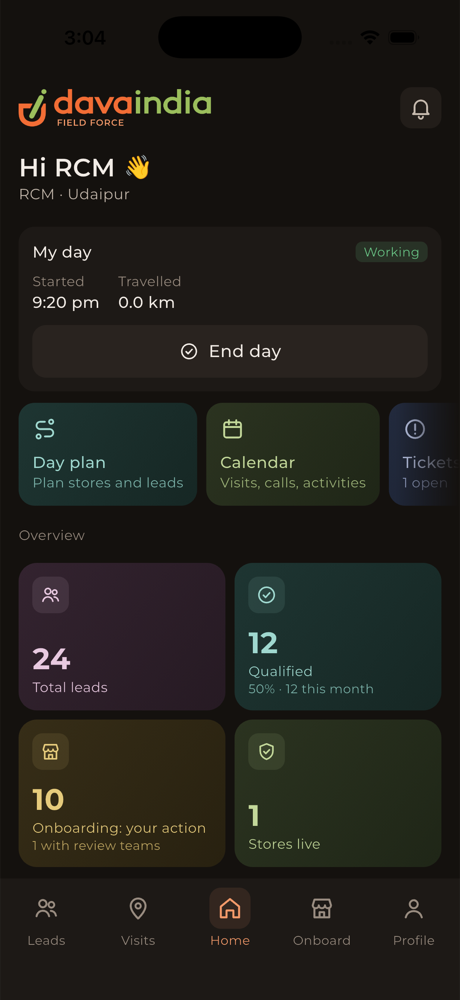
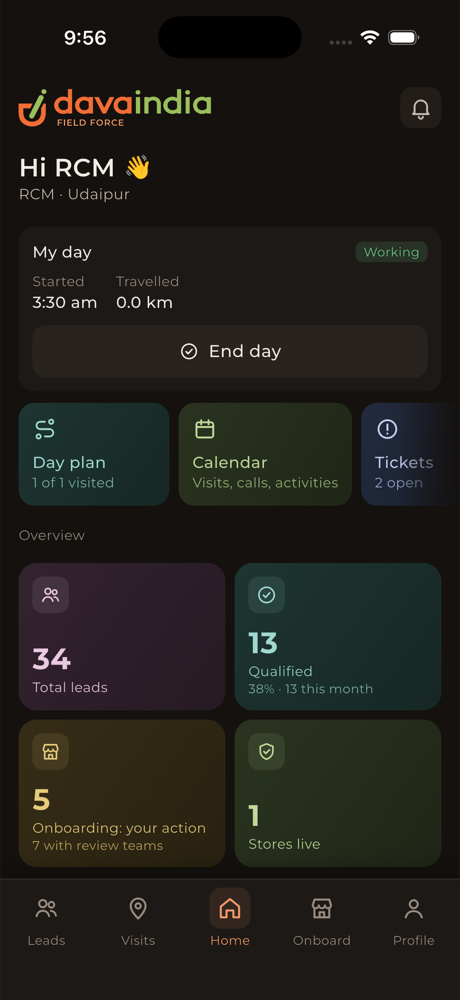
Release 1.1.1
The form button now sits on top of the keyboard, with the bar's colour
filling behind the keyboard's rounded corners, and a focused field
keeps its label in view. Bottom bars get a soft shadow and a faint
hairline. The status bar is transparent on older Android too. The
splash is the logo on the page colour with a dotted loader, and the
native launch screens use the same colour.

diff --git a/lib/features/auth/splash_screen.dart b/lib/features/auth/splash_screen.dart
@@ -2,44 +2,85 @@ import 'package:material_ui/material_ui.dart';
 
 import '../../core/brand/logo.dart';
 import '../../core/theme/app_theme.dart';
-import '../../core/theme/tokens.dart';
 
-/// Shown while the saved session is being restored: the in-app logo centred on a full light clay
-/// gradient. The native launch screen is the gradient's top colour, so the hand-off doesn't flash.
+/// Shown while the saved session is being restored: the in-app logo centred on the page colour, with
+/// three dots pulsing below. The native launch screen is the same colour, so the hand-off doesn't flash.
 class SplashScreen extends StatelessWidget {
   const SplashScreen({super.key});
 
   @override
   Widget build(BuildContext context) {
-    final c = context.colors;
-    final t = context.stats.tint(StatTone.clay);
     return Scaffold(
-      body: DecoratedBox(
-        decoration: BoxDecoration(
-          gradient: LinearGradient(begin: Alignment.topCenter, end: Alignment.bottomCenter, colors: [t.top, t.bottom]),
-        ),
-        child: Stack(
+      backgroundColor: context.colors.page,
+      body: const Stack(
+        children: [
+          Center(child: AppLogo(height: 34)),
+          Positioned(bottom: 90, left: 0, right: 0, child: Center(child: DotsLoader())),
+        ],
+      ),
+    );
+  }
+}
+
+/// Three dots that pulse one after another. Still dots when the phone asks for reduced motion.
+class DotsLoader extends StatefulWidget {
+  const DotsLoader({super.key, this.color, this.size = 8});
+
+  final Color? color;
+  final double size;
+
+  @override
+  State<DotsLoader> createState() => _DotsLoaderState();
+}
+
+class _DotsLoaderState extends State<DotsLoader> with SingleTickerProviderStateMixin {
+  late final _anim = AnimationController(vsync: this, duration: const Duration(milliseconds: 1100))..repeat();
+
+  @override
+  void dispose() {
+    _anim.dispose();
+    super.dispose();
+  }
+
+  @override
+  Widget build(BuildContext context) {
+    final color = widget.color ?? context.colors.accent; // clay, lighter in dark mode
+    final still = MediaQuery.of(context).disableAnimations;
+    return Semantics(
+      label: 'Loading',
+      child: AnimatedBuilder(
+        animation: _anim,
+        builder: (context, _) => Row(
+          mainAxisSize: MainAxisSize.min,
           children: [
-            const Center(child: AppLogo(height: 34)),
-            Positioned(
-              bottom: 90,
-              left: 0,
-              right: 0,
-              child: Center(
-                child: SizedBox(
-                  width: 120,
-                  child: LinearProgressIndicator(
-                    minHeight: 4,
-                    borderRadius: BorderRadius.circular(2),
-                    color: c.primary,
-                    backgroundColor: c.primary.withValues(alpha: 0.15),
+            for (var i = 0; i < 3; i++) ...[
+              if (i > 0) SizedBox(width: widget.size * 0.9),
+              () {
+                // Each dot rises and fades in a third of a cycle after the one before it.
+                final t = still ? 1.0 : _pulse((_anim.value - i * 0.18) % 1.0);
+                return Transform.scale(
+                  scale: 0.7 + 0.3 * t,
+                  child: Container(
+                    width: widget.size,
+                    height: widget.size,
+                    decoration: BoxDecoration(
+                      color: color.withValues(alpha: 0.35 + 0.65 * t),
+                      shape: BoxShape.circle,
+                    ),
                   ),
-                ),
-              ),
-            ),
+                );
+              }(),
+            ],
           ],
         ),
       ),
     );
+  }
+
+  /// 0 → 1 → 0 over the first 60% of the cycle, then rest.
+  static double _pulse(double x) {
+    if (x > 0.6) return 0;
+    final p = x / 0.6;
+    return p < 0.5 ? Curves.easeOut.transform(p * 2) : Curves.easeIn.transform((1 - p) * 2);
   }
 }

diff --git a/lib/core/widgets/widgets.dart b/lib/core/widgets/widgets.dart
@@ -292,6 +292,8 @@ class AppField extends StatelessWidget {
           const SizedBox(height: Space.xs),
         ],
         TextField(
+          // When focus scrolls the field into view, keep its label (above it) visible too.
+          scrollPadding: const EdgeInsets.fromLTRB(20, 56, 20, 20),
           controller: controller,
           obscureText: obscure,
           keyboardType: keyboardType,
@@ -465,6 +467,24 @@ class MessageBlock extends StatelessWidget {
 }
 
 /// Solid bar pinned to the bottom of a screen for its main actions.
+/// The fill and edge of bars pinned to the bottom (the tab bar, a form's button bar): solid, with a
+/// semi-transparent hairline and a soft, wide shadow above, like iOS's tab bar, so content scrolling
+/// underneath stays separate. Dark mode darkens above the bar, since a light shadow wouldn't show.
+BoxDecoration bottomBarDecoration(BuildContext context) {
+  final c = context.colors;
+  final dark = Theme.of(context).brightness == Brightness.dark;
+  return BoxDecoration(
+    color: c.card,
+    border: Border(top: BorderSide(color: c.separator)),
+    boxShadow: dark
+        ? const [BoxShadow(color: Color(0x59000000), blurRadius: 18, offset: Offset(0, -6))]
+        : const [
+            BoxShadow(color: Color(0x0F1E1915), blurRadius: 18, offset: Offset(0, -6)),
+            BoxShadow(color: Color(0x0A1E1915), blurRadius: 3, offset: Offset(0, -1)),
+          ],
+  );
+}
+
 /// Space under the last control of a bottom bar. iOS's home indicator strip is see-through, so the inset
 /// alone leaves room. Android's 3-button bar is often painted solid, so the gap goes on top of the inset
 /// or the buttons look glued to it.
@@ -483,12 +503,15 @@ class ActionBar extends StatelessWidget {
 
   @override
   Widget build(BuildContext context) {
-    return ColoredBox(
-      color: context.colors.card,
+    return DecoratedBox(
+      decoration: bottomBarDecoration(context),
       child: Surface(
         level: SurfaceLevel.card,
+        // While the keyboard is open the bar grows by its height, so Save or Sign in sits right on top of
+        // it (Scaffold would leave the bar pinned behind the keyboard), and the bar's own fill runs
+        // down behind the keyboard's rounded corners instead of the page colour.
         child: Padding(
-          padding: EdgeInsets.only(bottom: bottomBarGap(context)),
+          padding: EdgeInsets.only(bottom: bottomBarGap(context) + MediaQuery.viewInsetsOf(context).bottom),
           child: Padding(
             padding: const EdgeInsets.fromLTRB(Space.screen, Space.lg, Space.screen, 0),
             child: Column(

diff --git a/lib/app/app.dart b/lib/app/app.dart
@@ -19,19 +19,24 @@ class FieldApp extends ConsumerWidget {
       themeMode: ThemeMode.system,
       routerConfig: ref.watch(routerProvider),
       builder: (context, child) => AnnotatedRegion<SystemUiOverlayStyle>(
-        value: _navigationBar(context),
+        value: _systemBars(context),
         child: UpdateWatcher(navigatorKey: rootNavigatorKey, child: child ?? const SizedBox.shrink()),
       ),
     );
   }
 }
 
-/// Android's navigation bar: see-through where Android allows it, so the app's own bottom bar colour runs
-/// behind the system buttons instead of a black strip; the card colour on older Android that ignores
-/// transparency. Icons follow the theme so they stay visible.
-SystemUiOverlayStyle _navigationBar(BuildContext context) {
+/// The system bars. Status bar: transparent, so the page colour runs behind the clock (Flutter would
+/// otherwise put a 25% black band there on Android 14 and older), with icons that suit the theme.
+/// Navigation bar: see-through where Android allows it, so the app's own bottom bar colour runs behind
+/// the system buttons instead of a black strip; the card colour on older Android that ignores transparency.
+SystemUiOverlayStyle _systemBars(BuildContext context) {
   final dark = Theme.of(context).brightness == Brightness.dark;
   return SystemUiOverlayStyle(
+    statusBarColor: Colors.transparent,
+    statusBarIconBrightness: dark ? Brightness.light : Brightness.dark,
+    statusBarBrightness: dark ? Brightness.dark : Brightness.light, // iOS: the background, not the icons
+    systemStatusBarContrastEnforced: false,
     systemNavigationBarColor: context.colors.card,
     systemNavigationBarDividerColor: Colors.transparent,
     systemNavigationBarContrastEnforced: false,

diff --git a/lib/app/tab_shell.dart b/lib/app/tab_shell.dart
@@ -9,6 +9,7 @@ import '../core/theme/app_theme.dart';
 import '../core/theme/tokens.dart';
 import '../core/widgets/toast.dart';
 import '../features/alerts/open_alert.dart';
+import '../core/widgets/widgets.dart';
 import 'modules.dart';
 
 /// Hosts the tab screens and the solid bottom tab bar. Only tabs the user
@@ -47,8 +48,8 @@ class TabShell extends ConsumerWidget {
       onOpenPush: (context, entity, id) => openAlert(context, entity: entity, entityId: id),
       child: Scaffold(
         body: shell,
-        bottomNavigationBar: ColoredBox(
-          color: context.colors.card,
+        bottomNavigationBar: DecoratedBox(
+          decoration: bottomBarDecoration(context),
           child: SafeArea(
             top: false,
             child: ConstrainedBox(

diff --git a/lib/core/widgets/page.dart b/lib/core/widgets/page.dart
@@ -58,6 +58,7 @@ class PageBody extends StatelessWidget {
                 ],
               ),
       ),
+      // ActionBar rides up on top of the keyboard itself (see there).
       bottomNavigationBar: bottom,
     );
   }

diff --git a/scripts/app_icon/generate.py b/scripts/app_icon/generate.py
@@ -38,9 +38,9 @@ CLAY_LIGHT = "#F49A6A"
 DARK_TILE = "#1D1916"
 WHITE = "#FFFFFF"
 
-# Launch screen colour: the top of the Flutter splash gradient (light clay).
-SPLASH = "#F8E6DC"
-SPLASH_DARK = "#3A2519"
+# Launch screen colour: the app's page colour, which the Flutter splash continues.
+SPLASH = "#F6F3EF"
+SPLASH_DARK = "#14110E"
 
 # Layout as shares of the visible icon: lettering width, "ff" height, gap.
 WORD_SHARE = 0.64
@@ -135,8 +135,8 @@ def svg_foreground(word):
 
 
 def splash():
-    """Native launch screens: just the splash's light clay (no mark), which the
-    Flutter splash continues with its gradient and the in-app logo."""
+    """Native launch screens: just the page colour (no mark), which the Flutter
+    splash continues with the in-app logo."""
     assets = ROOT / "ios/Runner/Assets.xcassets"
     # The old "ff" launch image; the storyboard now shows only the colour.
     shutil.rmtree(assets / "LaunchMark.imageset", ignore_errors=True)

diff --git a/CHANGELOG.md b/CHANGELOG.md
@@ -4,6 +4,18 @@ All notable changes to this project are documented here. The format follows [Kee
 
 ## [Unreleased]
 
+## [1.1.1] - 2026-11-15
+
+### Changed
+
+- Bottom bars (the tab bar and form buttons) have a soft shadow and a faint hairline, so content scrolling underneath stays separate.
+- The splash is the logo on the page colour with three pulsing dots; the phone's launch screen uses the same colour.
+
+### Fixed
+
+- The keyboard covered the form's button (Sign in, Save, Add lead). The button now sits on top of the keyboard, and a focused field keeps its label in view.
+- On Android 14 and older the status bar had a grey band over the app; it's now transparent with icons that match the theme.
+
 ## [1.1.0] - 2026-11-15
 
 ### Added
